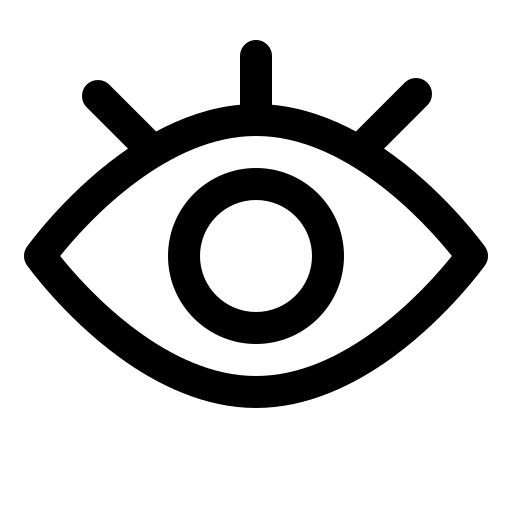
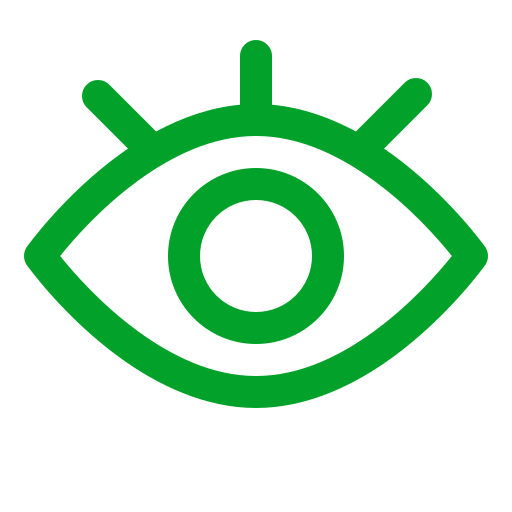
act

Changed region(s): [[0.0312, 0.0625, 0.9688, 0.8125], [0.3125, 0.3125, 0.6875, 0.6875]]

diff --git a/registro.html b/registro.html
@@ -17,12 +17,14 @@
 
             <div class="password-container">
                 <input type="password" id="register-password" placeholder="Contraseña" required>
-                <span class="toggle-password" data-target="register-password">👁</span>
+                <!-- Cambiamos el span por un <img> con las rutas de las imágenes -->
+                <img src="https://papelerapierrastegui.com.ar/assets/images/ojoc.png" class="toggle-password" data-target="register-password" alt="Mostrar/Ocultar contraseña" />
             </div>
 
             <div class="password-container">
                 <input type="password" id="confirmpassword" placeholder="Confirmar Contraseña" required>
-                <span class="toggle-password" data-target="confirmpassword">👁</span>
+                <!-- Cambiamos el span por un <img> con las rutas de las imágenes -->
+                <img src="https://papelerapierrastegui.com.ar/assets/images/ojoc.png" class="toggle-password" data-target="confirmpassword" alt="Mostrar/Ocultar contraseña" />
             </div>
 
             <button type="submit">Registrarse</button>

diff --git a/assets/js/togglePassword.js b/assets/js/togglePassword.js
@@ -11,10 +11,10 @@ document.addEventListener("DOMContentLoaded", function () {
             // Alternar la visibilidad de la contraseña
             if (passwordInput.type === "password") {
                 passwordInput.type = "text";
-                this.src = "../images/ojoa.png"; // Cambia la imagen a ojo abierto (mostrar)
+                this.src = "https://papelerapierrastegui.com.ar/assets/images/ojoa.png"; // Cambia la imagen a ojo abierto (mostrar)
             } else {
                 passwordInput.type = "password";
-                this.src = "../images/ojoc.png"; // Cambia la imagen a ojo cerrado (ocultar)
+                this.src = "https://papelerapierrastegui.com.ar/assets/images/ojoc.png"; // Cambia la imagen a ojo cerrado (ocultar)
             }
         });
     });

diff --git a/logueo.html b/logueo.html
@@ -15,7 +15,8 @@
 
             <div class="password-container">
                 <input type="password" id="login-password" placeholder="Contraseña" required>
-                <span class="toggle-password" data-target="login-password">👁</span>
+                <!-- Aquí cambiamos el span por un <img> con las rutas de las imágenes -->
+                <img src="https://papelerapierrastegui.com.ar/assets/images/ojoc.png" class="toggle-password" data-target="login-password" alt="Mostrar/Ocultar contraseña" />
             </div>
 
             <button type="submit">Iniciar Sesión</button>

diff --git a/assets/css/reg_logueo_pp.css b/assets/css/reg_logueo_pp.css
@@ -33,6 +33,17 @@ header {
     left: 38%;
 } 
 
+/* Ajustar tamaño de las imágenes de los íconos */
+.toggle-password {
+    width: 28px; /* Ajusta el tamaño deseado */
+    height: auto; /* Mantener la proporción de la imagen */
+    cursor: pointer; /* Asegura que se vea como un ícono clickeable */
+    margin-left: -3em;
+    color: #02a22a;
+    margin-top: 0.1em;!;!e;!em;!e;!;
+}
+
+
 p {
     color: #02a22a;
 }
